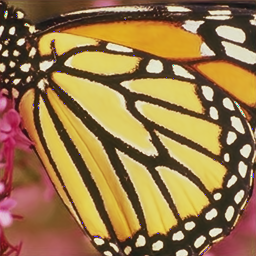
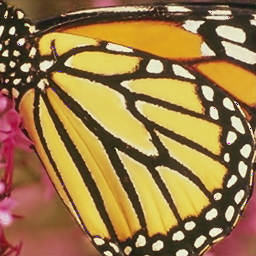
more attention

diff --git a/main.py b/main.py
@@ -17,20 +17,21 @@ from layers import DepthwiseSeparableConv_Block, AttentionBlock
 
 def model(inputShape):
     input_img = Input(shape=(inputShape))
-    x = DepthwiseSeparableConv_Block(256, 1, strides = 1)(input_img)
+    x = DepthwiseSeparableConv_Block(256, 3, strides = 1)(input_img)
     x = DepthwiseSeparableConv_Block(256, 5, strides = 1)(x)
     x = AttentionBlock(256)(x)
-    x = DepthwiseSeparableConv_Block(128, 1, strides = 1)(x)
+    x = DepthwiseSeparableConv_Block(128, 3, strides = 1)(x)
     x = DepthwiseSeparableConv_Block(128, 5, strides = 1)(x)
     x = AttentionBlock(128)(x)
-    x = DepthwiseSeparableConv_Block(64, 1, strides = 1)(x)
+    x = DepthwiseSeparableConv_Block(64, 3, strides = 1)(x)
     x = DepthwiseSeparableConv_Block(64, 5, strides = 1)(x)
     x = AttentionBlock(64)(x)
-    x = DepthwiseSeparableConv_Block(32, 1, strides = 1)(x)
+    x = DepthwiseSeparableConv_Block(32, 3, strides = 1)(x)
     x = DepthwiseSeparableConv_Block(32, 5, strides = 1)(x)
-    x = DepthwiseSeparableConv_Block(16, 1, strides = 1)(x)
+    x = AttentionBlock(32)
+    x = DepthwiseSeparableConv_Block(16, 3, strides = 1)(x)
     x = DepthwiseSeparableConv_Block(16, 5, strides = 1)(x)
-    x = DepthwiseSeparableConv_Block(8, 1, strides = 1)(x)
+    x = DepthwiseSeparableConv_Block(8, 3, strides = 1)(x)
     x = DepthwiseSeparableConv_Block(8, 5, strides = 1)(x)
     x = DepthwiseSeparableConv_Block(3, 3, strides = 1)(x)
     model = Model(input_img, x)
@@ -62,7 +63,7 @@ def main():
             patience = 1000) ## early stopping to prevent overfitting
 
     history = nn.fit(lr_image, hr_image,
-                epochs = 2500,
+                epochs = 3000,
                 batch_size = batchSize, callbacks = [es])
 
     """ reconstrucing high-resolution image from the low-resolution image """
